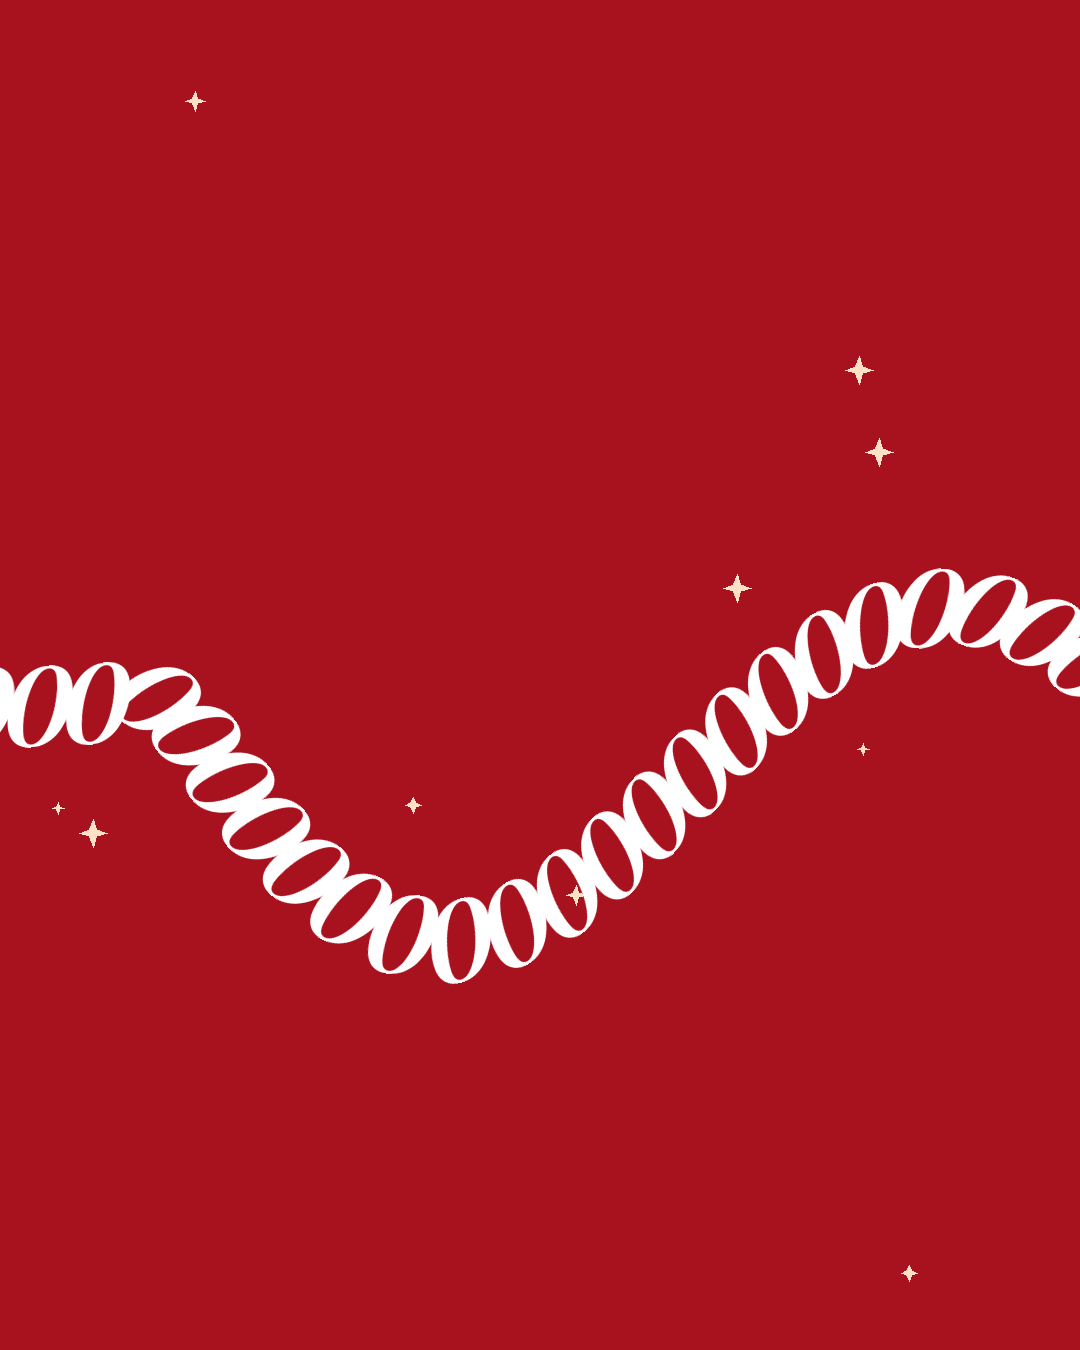
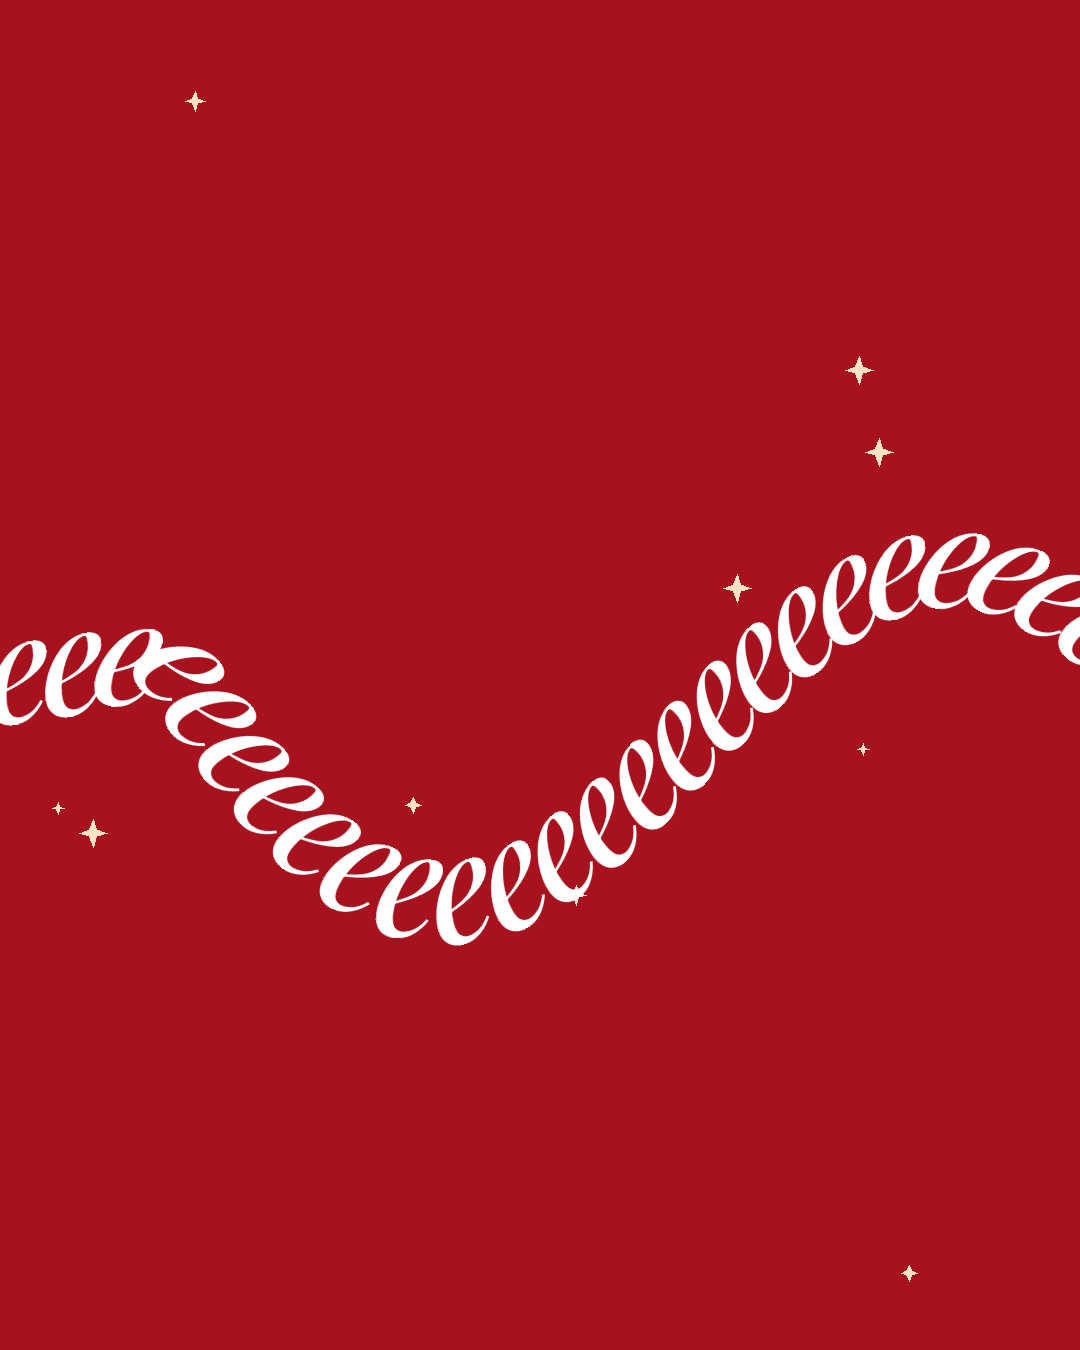
Carosello regali in inglese (It's Timeeee) con le foto della titolare
Claude-Session: https://claude.ai/code/session_01TRyadBTg1JbKFooPCfPKjK

Changed region(s): [[0.0, 0.3733, 1.0, 0.7467]]

diff --git a/output/2026-11-26-carosello-regali/crea.py b/output/2026-11-26-carosello-regali/crea.py
@@ -109,15 +109,15 @@ def main():
     f1 = font(F_CORS, 150)
     lg = g.logo(g.STILE_BASE, True, 260)
     tela.alpha_composite(lg, ((W - lg.width) // 2, 120))
-    d.text((90, 470), "È il", font=font(F_CORS, 96), fill=BIANCO)
-    d.text((90, 570), "moment", font=f1, fill=BIANCO)
-    x_fine = 90 + d.textlength("moment", font=f1)
+    d.text((90, 470), "It's", font=font(F_CORS, 96), fill=BIANCO)
+    d.text((90, 570), "Tim", font=f1, fill=BIANCO)
+    x_fine = 90 + d.textlength("Tim", font=f1)
     y_o = 570 + 98  # centro verticale delle lettere minuscole
 
     # scia di "o" che continua su tutte le slide
     fo = font(F_CORS, 150)
     o = Image.new("RGBA", (120, 200), (0, 0, 0, 0))
-    ImageDraw.Draw(o).text((10, 0), "o", font=fo, fill=BIANCO)
+    ImageDraw.Draw(o).text((10, 0), "e", font=fo, fill=BIANCO)
     o = o.crop(o.getbbox())
     pts = ricampiona(percorso(x_fine + o.width * 0.55, y_o), o.width * 0.86)
     for i, (x, y) in enumerate(pts):
@@ -131,17 +131,17 @@ def main():
 
     # slide 4: arrivo
     x4 = 3 * W
-    for j, riga in enumerate(["per trovare", "il regalo perfetto"]):
+    for j, riga in enumerate(["to find you", "the perfect gift"]):
         f = font(F_CORS, 96)
         d.text((x4 + 165 + j * 40, 330 + j * 110), riga, font=f, fill=BIANCO)
-    foto = [("foto/prodotti/maglia-nera-paillettes-lurex.jpg", "un maglione", 6, (x4 + 40, 610)),
-            ("foto/accessori/borsa-camoscio-beige-chiusura-oro.jpg", "una borsa", -4, (x4 + 370, 570)),
-            ("foto/accessori/aladdin-collana-cerchi-oro-cristalli-rossi-bracciale.jpg", "un gioiello", 5, (x4 + 700, 625))]
+    foto = [("foto/ai/regalo-maglione-nero-paillettes.png", "a sweater", 6, (x4 + 40, 610)),
+            ("foto/ai/regalo-borsa-beige.png", "a bag", -4, (x4 + 370, 570)),
+            ("foto/ai/regalo-collane-cristalli.png", "a jewel", 5, (x4 + 700, 625))]
     for p, nome, ang, (px, py) in foto:
         c = polaroid(p, 250, 300, nome, ang)
         tela.alpha_composite(c, (px - 30, py))
     fv = font(F_SANS, 30)
-    t = "DA PAKIMA · VIA CAVOUR 7 · VIMERCATE"
+    t = "PAKIMA · VIA CAVOUR 7 · VIMERCATE"
     sp = 5
     tw = sum(fv.getlength(ch) + sp for ch in t) - sp
     x = x4 + (W - tw) / 2

diff --git a/output/2026-11-26-carosello-regali/README.md b/output/2026-11-26-carosello-regali/README.md
@@ -1,11 +1,11 @@
-# Carosello di Natale "È il momentooo…" (trend del carosello continuo)
+# Carosello di Natale "It's Timeeee…" (trend del carosello continuo, in inglese per la canzone)
 
 Pubblica `1.png` → `2.png` → `3.png` → `4.png` come carosello (4:5). La scritta continua da una slide all'altra:
-"È il momentoooo…" con la scia di "o" che fa un'onda e un giro della morte, fino a "per trovare il regalo perfetto"
-con 3 idee regalo vere del negozio. Rigenerabile con `python3 crea.py` (si possono cambiare le foto regalo).
+"It's Timeeee…" con la scia di "e" che fa un'onda e un giro della morte, fino a "to find you the perfect gift"
+con 3 idee regalo (maglione paillettes, borsa beige, collane) dalle foto della titolare. Audio: canzone "It's time" aggiunta dall'app. Rigenerabile con `python3 crea.py` (si possono cambiare le foto regalo).
 
 ## Didascalia
-> È il momentooo… 🎁
+> It's time… 🎁
 > Quest'anno il regalo giusto lo trovi da Pakima: un maglione che fa brillare le feste, una borsa da portare sempre con sé, un gioiello che non passa inosservato.
 >
 > Vieni a sceglierlo con noi: ti aiutiamo a trovare quello perfetto per lei, e te lo prepariamo in confezione regalo.
